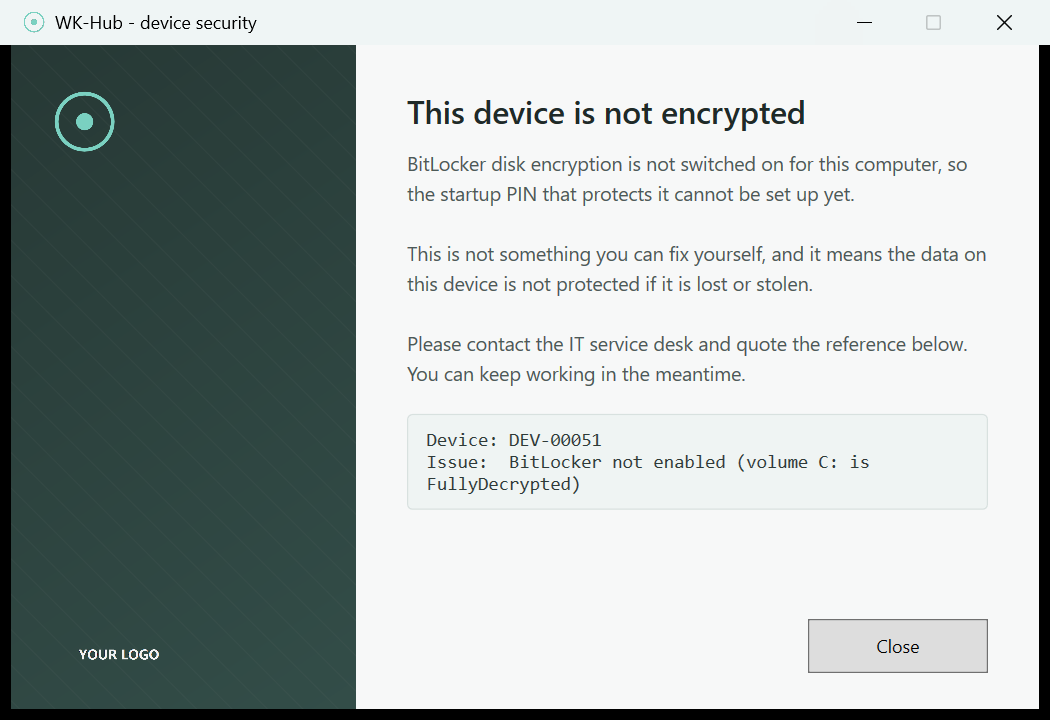
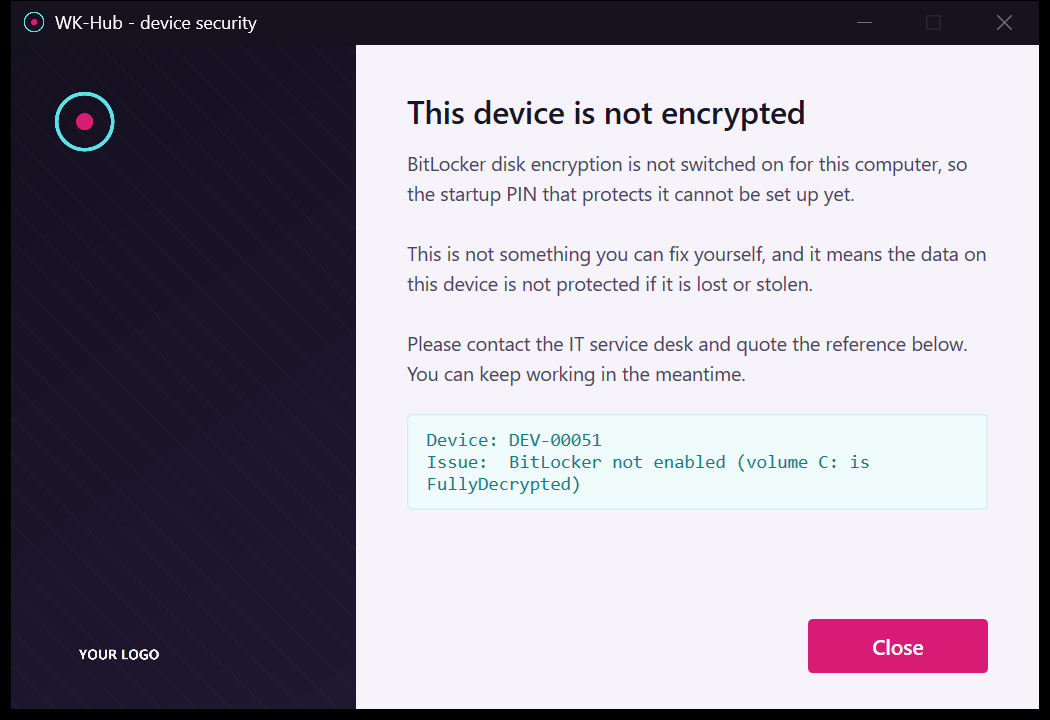
feat: re-theme both windows as an arcade cabinet
The palette was a desaturated green-grey that read as neither corporate nor
deliberate. It is replaced by an arcade cabinet: a violet-black body, CRT
phosphor cyan, and a magenta marquee.

Deliberately not near-black plus an acid-green accent, which is where this kind
of retheme usually lands and is close to where the palette already was.

  Cabinet        #FF16121F   rail, window, title bar
  Rail scrim     #B316121F   over the wallpaper
  Phosphor       #FF5CE1E6   eyebrow and rule, dark surfaces only
  Phosphor deep  #FF0E7C86   the same cyan as text on light
  Marquee        #FFD81B74   primary button
  Marquee lift   #FFFF4D9D   hover, and the rule's second half
  Screen         #FFF6F4FA   form panel
  Ink            #FF1A1526   body text

The boldness is spent on the rail and nowhere else. A security prompt that looks
like a game gets dismissed, or reported as phishing, so the form panel keeps a
quiet neutral treatment and only the primary button and the tinted panel carry
the accent. An early pass set the form's section label in spaced monospace too;
that pulled the arcade register onto the work surface and was reverted.

The rail gains an eyebrow reading P R E - B O O T, spaced by hand because WPF has
no character-spacing property, and the flat 35%-white hairline becomes a two-tone
rule that introduces both accents before either does functional work. The eyebrow
names the boot stage, so the device encodes something true rather than decorating.
[…]

diff --git a/BRANDING.md b/BRANDING.md
@@ -47,7 +47,7 @@ normal image slot.
 
 ```xml
 <Image Source="brand-background.png" Stretch="UniformToFill" HorizontalAlignment="Right"/>
-<Border Background="#B32E3A38"/>
+<Border Background="#B316121F"/>
 ```
 
 Three consequences, and all three matter:
@@ -61,7 +61,7 @@ Three consequences, and all three matter:
    image is wider than the rail, the *right* edge is kept and the left is cut.
    Put your focal point on the right-hand side of the file.
 
-3. **A ~70 %-opaque dark scrim (`#B32E3A38`) is painted over the whole thing.**
+3. **A ~70 %-opaque dark scrim (`#B316121F`) is painted over the whole thing.**
    This is not optional and not configurable — it is what keeps the white
    headings and body text readable over arbitrary artwork. So:
    - Bright, high-contrast, or busy images come out muddy. Pick something with
@@ -78,18 +78,38 @@ and set the rail colour (see below).
 
 ## Colours
 
-| Knob | Default | What it does |
+The palette is an arcade cabinet: a violet-black body, CRT phosphor cyan, and a
+magenta marquee. The rail carries all of it. The form panel stays quiet, because
+a security prompt that looks like a game gets dismissed or reported as phishing.
+
+| Token | Value | Where it is used |
 |---|---|---|
-| `-BrandColour` on `Get-BrandXaml` | `#FF2E3A38` | Fills the rail when there is no `brand-background.png`. It is the same value as the window background, so an unbranded rail reads as a design choice |
-| Window background (in the XAML) | `#FF2E3A38` | Also painted onto the **native Windows 11 title bar** through DWM, so the real minimise/close buttons, snapping and accessibility all keep working — a hand-rolled caption bar would lose those. Silently ignored on Windows 10 |
-| Rail scrim | `#B32E3A38` | Fixed. See above |
+| Cabinet | `#FF16121F` | Rail fallback (`-BrandColour` on `Get-BrandXaml`), window background, and the native title bar — painted through DWM by `Set-BrandedTitleBar`, so the real minimise/close buttons, snapping and accessibility keep working. Silently ignored on Windows 10, which keeps its default caption |
+| Rail scrim | `#B316121F` | Over the wallpaper. Fixed |
+| Phosphor | `#FF5CE1E6` | The `PRE-BOOT` eyebrow and the left half of the rule. **Dark surfaces only** |
+| Phosphor deep | `#FF0E7C86` | The same cyan as text on the light panel, darkened to clear 4.5:1 |
+| Marquee | `#FFD81B74` | Primary button. Darkened from the brighter tone so white text on it clears 4.5:1 |
+| Marquee lift | `#FFFF4D9D` | Button hover, and the right half of the rule |
+| Screen | `#FFF6F4FA` | Form panel |
+| Ink | `#FF1A1526` | Body text on the panel |
 
 All are `#AARRGGBB` — alpha first. `FF` is opaque, `B3` is ~70 %.
 
-To change the palette, edit `Get-BrandXaml` in `BitLockerPin.Common.ps1` and the
-`Background=` attributes in the two XAML blocks in `Set-BitLockerPin.ps1`. Keep
-the rail colour and the window background identical, or the unbranded fallback
-looks like a rendering bug.
+**The rail is where the personality lives.** Its eyebrow is set in spaced
+monospace (`P R E - B O O T`) because WPF has no character-spacing property and
+that register is the point — it names the boot stage, which is real information,
+not decoration. The rule under the heading is two-tone, cyan into magenta,
+introducing both accents before either is used for anything functional.
+
+To change the palette, edit `Get-BrandXaml` in `BitLockerPin.Common.ps1`, the
+`Background=` attributes in the two XAML blocks in `Set-BitLockerPin.ps1`, and
+the `-Colour` default on `Set-BrandedTitleBar`. Keep the rail colour, the window
+background and the title bar identical, or the unbranded fallback looks like a
+rendering bug.
+
+If you re-theme, check contrast on the two that carry text: white on the primary
+button, and the phosphor-deep label on the tinted panel. Both sit just above
+4.5:1 by design, so a small lightening breaks them.
 
 ---
 

diff --git a/docs/REFERENCE.md b/docs/REFERENCE.md
@@ -209,7 +209,7 @@ these names:
 
 Any of the three can be omitted independently. The wordmark text and the fallback colour
 come from `Get-BrandXaml` in `BitLockerPin.Common.ps1`: the text is the `-Organization`
-value, and `-BrandColour` (default `#FF2E3A38`) is the same value as the window
+value, and `-BrandColour` (default `#FF16121F`) is the same value as the window
 background, so an unbranded window looks deliberate rather than broken. An upgrade that
 drops artwork the previous version had also removes the stale file from the device.
 
